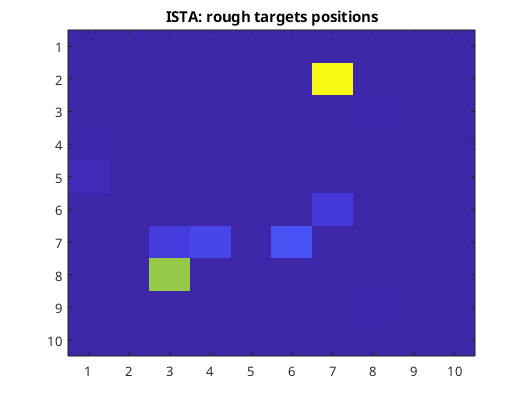
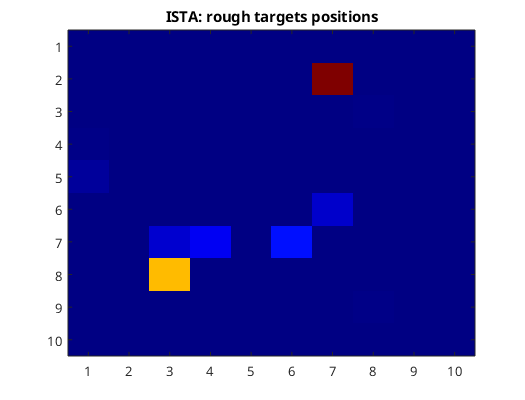
e03: changed colormap style

diff --git a/e03/e03_main.m b/e03/e03_main.m
@@ -47,7 +47,7 @@ end
 % plot estimated targets positions
 f = figure(1);
 f.Position([3 4]) = [525, 400];
-colormap("default")
+colormap("jet")
 imagesc(pos)
 title("ISTA: rough targets positions")
 
